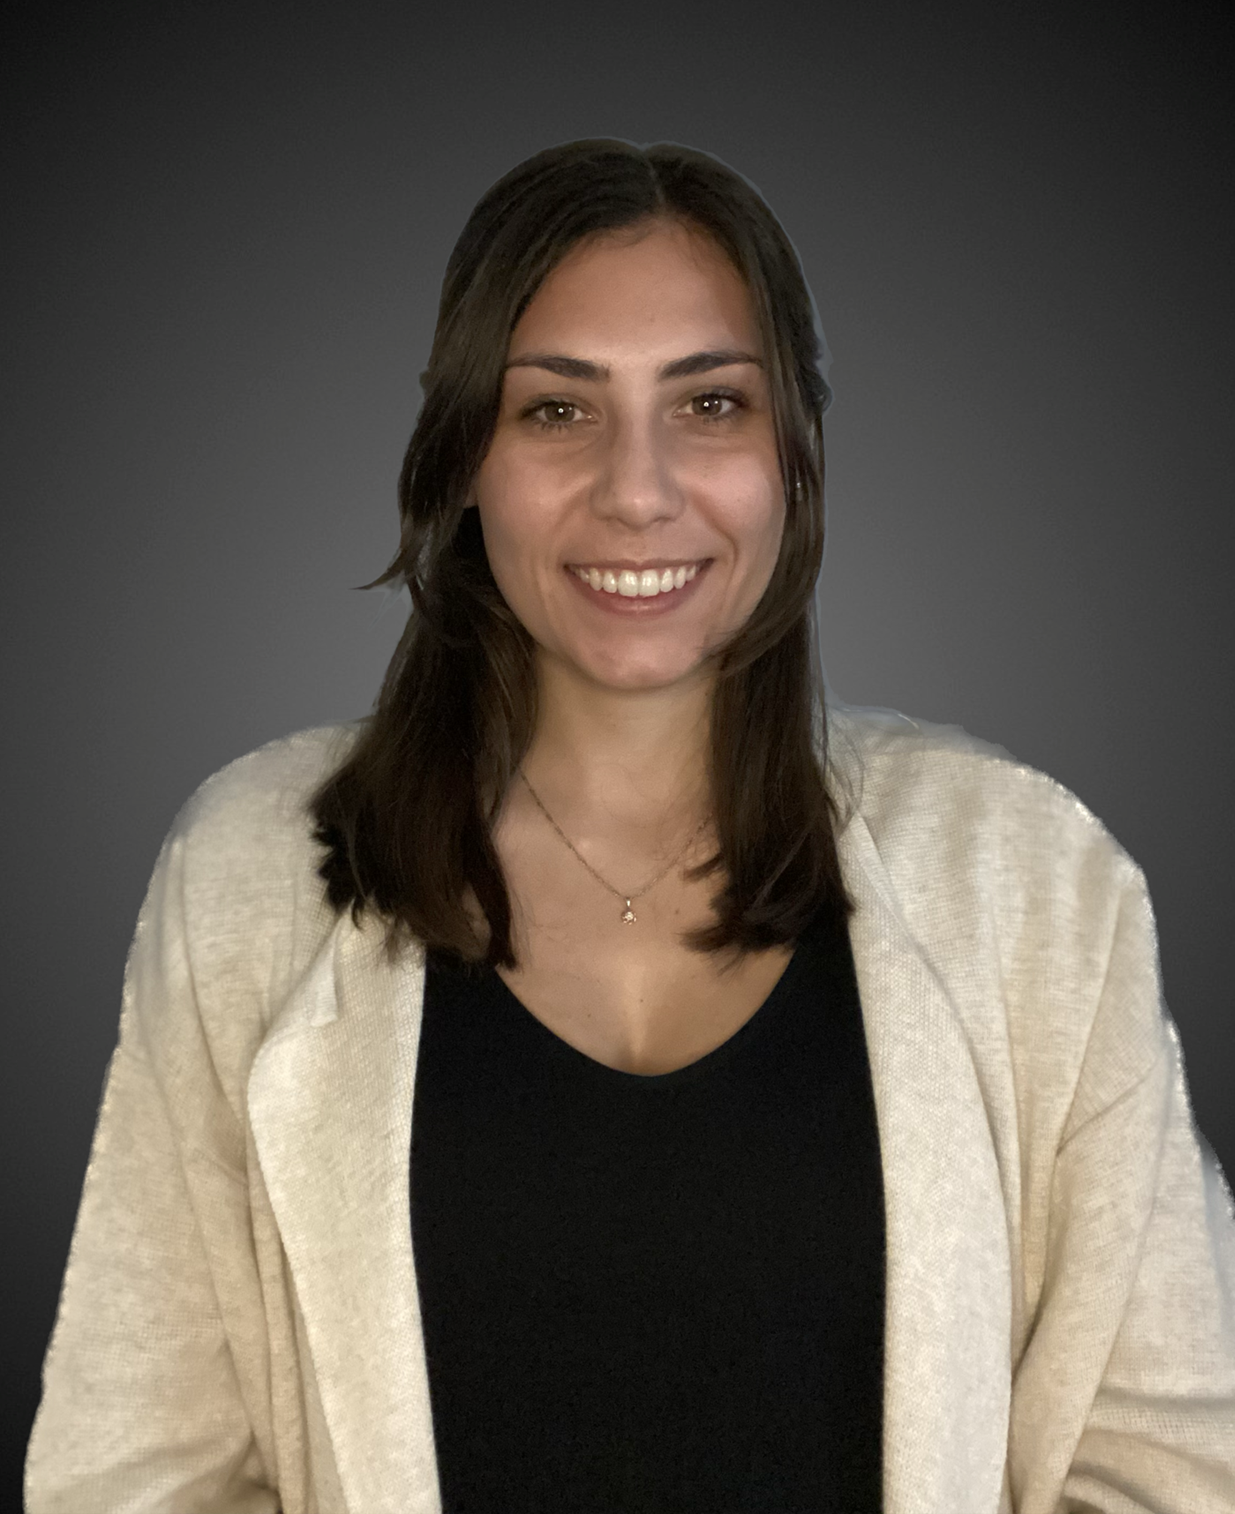
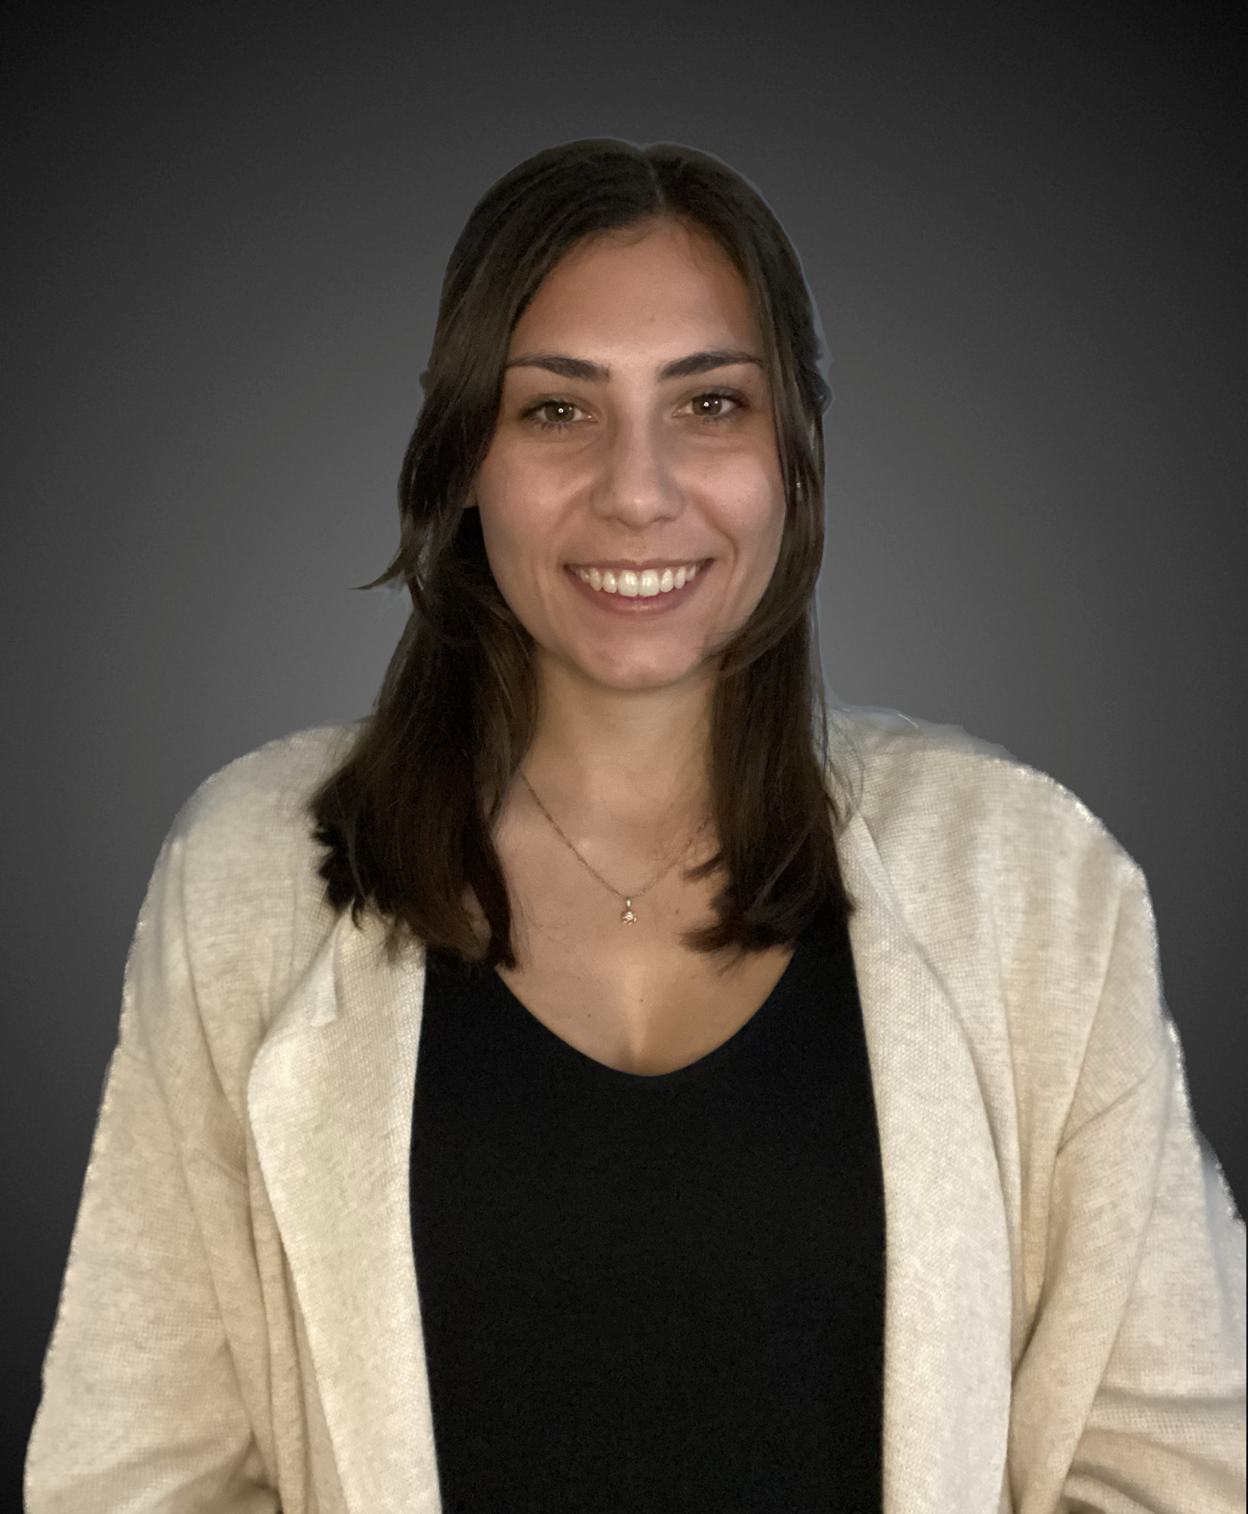
Setup skeleton for About and Contact pages

diff --git a/src/components/contact/Contact.js b/src/components/contact/Contact.js
@@ -1,0 +1,63 @@
+import React, { useState } from 'react';
+import { PageHeader, SubHeading } from '../global/Global';
+import {
+    ContactPageContainer,
+    ContactContainer,
+    ContactForm,
+    Input,
+    TextArea,
+    Button,
+    ContactMessage
+} from './contactStyles';
+
+
+function Contact({data}) {
+    const [name, setName] = useState('');
+    const [email, setEmail] = useState('');
+    const [message, setMessage] = useState('');
+    const [sent, setSent] = useState(false);
+  
+    const handleSubmit = (e) => {
+      e.preventDefault();
+      // Here you can implement the logic to send the email
+      setSent(true);
+    };
+
+    return (
+      <ContactPageContainer>
+        <PageHeader title='Contact Me'/>
+        <ContactContainer>
+            <h2>Contact Me</h2>
+            <ContactForm onSubmit={handleSubmit}>
+                <Input
+                type="text"
+                placeholder="Your Name"
+                value={name}
+                onChange={(e) => setName(e.target.value)}
+                required
+                />
+                <Input
+                type="email"
+                placeholder="Your Email"
+                value={email}
+                onChange={(e) => setEmail(e.target.value)}
+                required
+                />
+                <TextArea
+                placeholder="Your Message"
+                value={message}
+                onChange={(e) => setMessage(e.target.value)}
+                rows="5"
+                required
+                />
+                <Button type="submit">Send</Button>
+            </ContactForm>
+            {sent && <ContactMessage>Your message has been sent successfully!</ContactMessage>}
+            <p>If you'd like to make an enquiry, please feel free to get in touch, and I will respond as soon as possible.</p>
+            <p>If you prefer to contact me directly, send your email to: <a href="mailto:sophie@stupalo.com">sophie@stupalo.com</a></p>
+        </ContactContainer>
+    </ContactPageContainer> 
+  )
+}
+
+export default Contact

diff --git a/src/App.js b/src/App.js
@@ -3,10 +3,12 @@ import React from 'react';
 import { HashRouter as Router, Routes, Route } from 'react-router-dom';
 import Navbar from './components/navbar/Navbar';
 import Home from './components/home/Home';
+import About from './components/about/About';
 import Experience from './components/experience/Experience';
 import Projects from './components/projects/Projects';
-// import Awards from './components/awards/Awards';
-import Footer from './components/footer/Footer'
+import Awards from './components/awards/Awards';
+import Contact from './components/contact/Contact';
+import Footer from './components/footer/Footer';
 import data from './assets/portfolio-content.json'
 
 
@@ -16,9 +18,11 @@ function App() {
       <Navbar data={data.header}/>
       <Routes>
         <Route path={data.header.homePath} element={<Home data={data.home}/>}/>
+        <Route path={data.header.aboutPath} element={<About data={data.about}/>}/>
         <Route path={data.header.experiencePath} element={<Experience data={data.experience}/>}/>
         <Route path={data.header.projectsPath} element={<Projects data={data.projects}/>}/>
-        {/* <Route path={data.header.awardsPath} element={<Awards data={data.awards}/>}/> */}
+        <Route path={data.header.awardsPath} element={<Awards data={data.awards}/>}/>
+        <Route path={data.header.contactPath} element={<Contact data={data.contact}/>}/>
       </Routes>
       <Footer data={data.footer}/>
     </Router>

diff --git a/src/components/navbar/Navbar.js b/src/components/navbar/Navbar.js
@@ -28,10 +28,11 @@ function Navbar({data}) {
         <RightContainer>
           <NavbarLinkContainer>
             <NavbarLinkContainerDesktop> 
-              <NavbarLink to={data.homePath}> {data.homeText}</NavbarLink>
+              <NavbarLink to={data.aboutPath}> {data.aboutText}</NavbarLink>
               <NavbarLink to={data.experiencePath}> {data.experienceText}</NavbarLink>
               <NavbarLink to={data.projectsPath}> {data.projectsText}</NavbarLink>
               <NavbarLink to={data.awardsPath}> {data.awardsText}</NavbarLink>
+              <NavbarLink to={data.contactPath}> {data.contactText}</NavbarLink>
             </NavbarLinkContainerDesktop>
             <OpenLinksButton
               onClick={() => {
@@ -49,10 +50,11 @@ function Navbar({data}) {
             setExtendNavbar((curr) => !curr);
           }}
         >
-          <NavbarLink to={data.homePath}> {data.homeText}</NavbarLink>
+          <NavbarLink to={data.aboutPath}> {data.aboutText}</NavbarLink>
           <NavbarLink to={data.experiencePath}> {data.experienceText}</NavbarLink>
           <NavbarLink to={data.projectsPath}> {data.projectsText}</NavbarLink>
           <NavbarLink to={data.awardsPath}> {data.awardsText}</NavbarLink>
+          <NavbarLink to={data.contactPath}> {data.contactText}</NavbarLink>
         </NavbarExtendedContainer>
       )}
     </NavbarContainer>

diff --git a/src/components/home/Home.js b/src/components/home/Home.js
@@ -28,7 +28,7 @@ function Home({data}) {
       <PageHeader title='Sophie Stupalo'/>
       <ContentContainer> 
         <LeftContainer>
-          <TopContentContainer>
+          {/* <TopContentContainer>
             <DetailsContainer> 
               <SubHeading title='Contact Details'/>
               <LinkContainer href={data.phoneLink}>
@@ -44,13 +44,13 @@ function Home({data}) {
                 <GradCapIcon icon={faGraduationCap}/><ButtonText>University of Waterloo<br />3B Biomedical Engineering</ButtonText>
               </LinkContainer>
             </DetailsContainer>
-          </TopContentContainer>
-          <LinkContainer href={data.resumeLink} download>
+          </TopContentContainer> */}
+          {/* <LinkContainer href={data.resumeLink} download>
             <DownloadButton> 
               <DownloadIcon icon={faDownload}/><DownloadButtonText>Download Resume</DownloadButtonText>
             </DownloadButton>
-          </LinkContainer>
-          <SubHeading title='About'/>
+          </LinkContainer> */}
+          <SubHeading title='Welcome to my website!'/>
           <AboutMeParagraph>{data.aboutMeParagraph}</AboutMeParagraph>
         </LeftContainer>
         <RightContainer>

diff --git a/src/components/contact/contactStyles.js b/src/components/contact/contactStyles.js
@@ -1,0 +1,49 @@
+import styled from 'styled-components';
+
+export const ContactPageContainer = styled.div`
+  width: 100%;
+  background-color: #FFFFFFFF;
+  display: flex;
+  flex-direction: column;
+  height: 100%;
+`;
+
+export const ContactContainer = styled.div`
+  max-width: 600px;
+  margin: 0 auto;
+  padding: 20px;
+`;
+
+export const ContactForm = styled.form`
+  display: flex;
+  flex-direction: column;
+`;
+
+export const Input = styled.input`
+  margin-bottom: 10px;
+  padding: 8px;
+  border: 1px solid #ccc;
+  border-radius: 4px;
+`;
+
+export const TextArea = styled.textarea`
+  margin-bottom: 10px;
+  padding: 8px;
+  border: 1px solid #ccc;
+  border-radius: 4px;
+`;
+
+export const Button = styled.button`
+  padding: 10px 20px;
+  background-color: #2B2B2BFF;
+  color: #fff;
+  border: none;
+  border-radius: 4px;
+  cursor: pointer;
+`;
+
+export const ContactMessage = styled.div`
+  margin-top: 20px;
+`;
+
+

diff --git a/src/components/home/HomeStyles.js b/src/components/home/HomeStyles.js
@@ -130,12 +130,12 @@ export const AboutMeParagraph = styled.p`
 export const ProfilePictureContainer = styled.div`
   display: flex;
   width: 100%;
-  background-color: #FFC9C9FF;
+  background-color: #747474FF;
 `
 
 export const ProfilePicture = styled.img`
-  width: 96%;
-  max-width: 96%;
+  width: 99%;
+  max-width: 99%;
   height: auto;
-  padding: 2%;
+  padding: 0.5%;
 `

diff --git a/src/components/about/About.js b/src/components/about/About.js
@@ -1,0 +1,15 @@
+import React from 'react';
+import { PageHeader } from '../global/Global';
+import {
+  AboutPageContainer
+} from './aboutStyles';
+
+function About({data}) {
+  return (
+    <AboutPageContainer>
+      <PageHeader title="About"/>
+    </AboutPageContainer> 
+  )
+}
+
+export default About

diff --git a/src/components/about/aboutStyles.js b/src/components/about/aboutStyles.js
@@ -1,0 +1,11 @@
+import styled from 'styled-components';
+import '../../assets/fonts/fonts.css';
+
+export const AboutPageContainer = styled.div`
+  width: 100%;
+  height: 100%;
+  background-color: #FFFFFFFF;
+  display: flex;
+  flex-direction: column;
+  height: calc(100vh - 80px);
+`;

diff --git a/src/components/navbar/NavbarStyles.js b/src/components/navbar/NavbarStyles.js
@@ -48,7 +48,7 @@ export const NavbarLinkContainerDesktop = styled.div`
 
 export const NavbarLink = styled(NavLink)`
   color: #747474FF;
-  font-size: 24px;
+  font-size: 20px;
   font-family: 'captura';
   font-weight: normal;
   font-style: normal;
